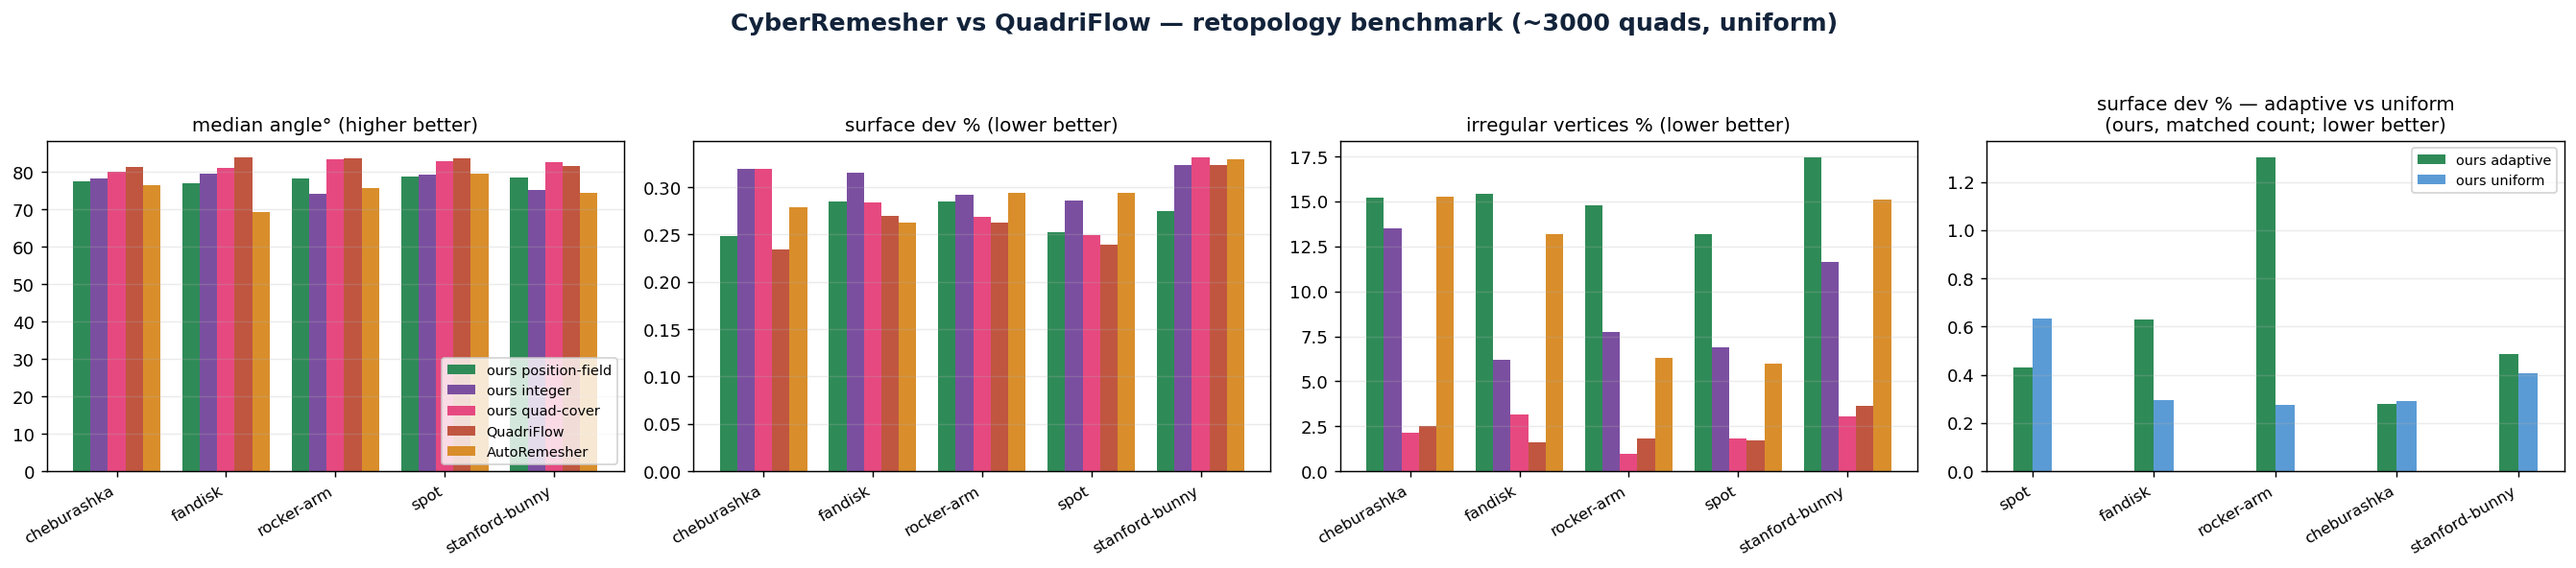
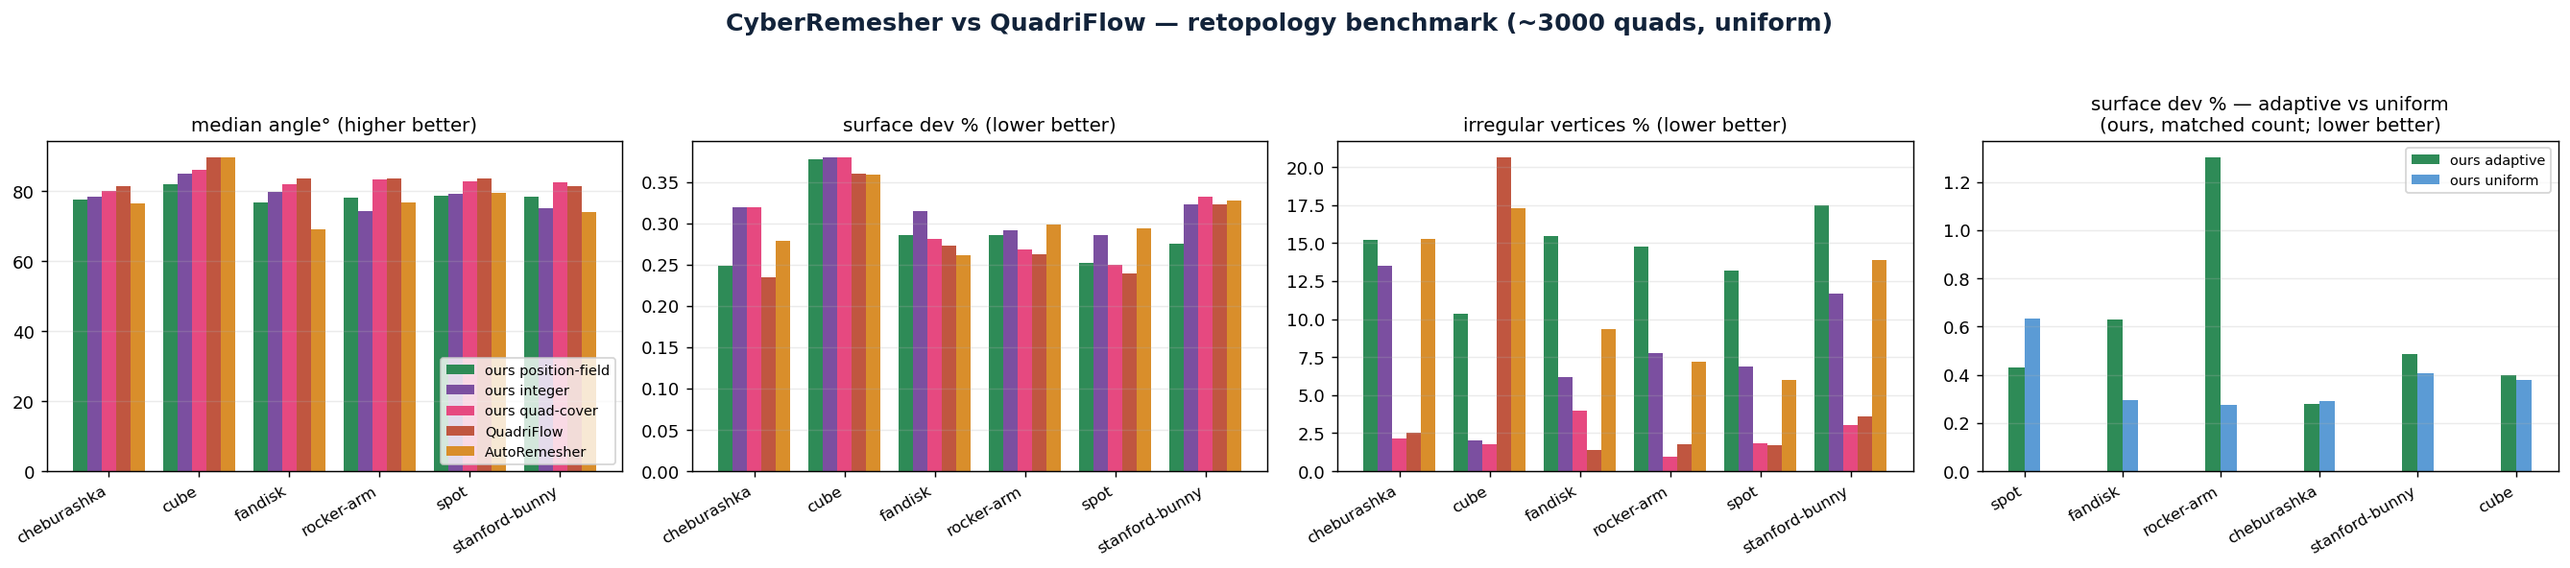
benchmark: add a flat-CAD model to the corpus, and diagnose the crease-alignment gate (#8)
The corpus was entirely organic or smooth-CAD, so it covered no flat panel bounded
by sharp creases. That blind spot is what let a crease field-alignment change
regress edge CV 0.201 -> 0.397 into main unnoticed: nothing in the benchmark
could see the failure class.

Add `cube` as a synthesised corpus member (common.SYNTHETIC_MODELS, resolved by
download_model like any other name) and register it in the benchmark's default
models. It earns its place twice over. It reproduces the regression that slipped
through -- cube@900 edge CV 0.201 -> 0.397 under crease alignment -- and it
surfaces a win the scored benchmark could not previously see: on flat CAD we BEAT
QuadriFlow on feature-following, 0.98% against 2.69%, with 0 topological defects
against its 680. Corpus-wide the headline moves from feature-follow 0/5 to 1/6 and
topological defects from 5/5 to 6/6.

Also add CYBER_QC_FIELD_STATS, which reports what fraction of the field the
constraints freeze. It is what diagnosed why crease alignment helps curved CAD but
hurts flat CAD, and the answer is not over-constraining: fandisk freezes 52.0% of
its faces and improves, while the cube freezes only 14.7% and degrades. A flat
panel's cross field is degenerate -- every orientation is equally smooth -- so
pinning a border band imposes arbitrary structure the interior cannot reconcile,
whereas a curved surface has a curvature-driven preference that crease pins
[…]

diff --git a/examples/common.py b/examples/common.py
@@ -414,11 +414,27 @@ def irregular_pct(mesh: MeshData) -> float:
     return 100.0 * sum(1 for c in val.values() if c != 4) / len(val)
 
 
+# Models we GENERATE rather than download. The community corpus is entirely organic or
+# smooth-CAD, so it covers no flat panel bounded by sharp creases -- a distinct failure class:
+# a planar face has a DEGENERATE cross field (every orientation is equally smooth), so anything
+# that pins its border imposes arbitrary structure. That blind spot is what let a crease
+# field-alignment change regress edge CV 0.201 -> 0.397 unnoticed by the whole benchmark.
+SYNTHETIC_MODELS = {"cube": lambda path: cube_obj(path, subdiv=12)}
+
+
 def download_model(name: str, models_dir: str = MODELS_DIR) -> str:
     """Return a local path to a common-3d-test-model, downloading it (once) on
-    demand. Raises KeyError for an unknown name."""
+    demand, or generating it for the synthetic entries. Raises KeyError otherwise."""
+    if name in SYNTHETIC_MODELS:
+        os.makedirs(models_dir, exist_ok=True)
+        path = os.path.join(models_dir, f"{name}.obj")
+        if not os.path.exists(path):
+            print(f"  generating {name} -> {os.path.relpath(path, _REPO)}")
+            SYNTHETIC_MODELS[name](path)
+        return path
     if name not in COMMON_3D_MODELS:
-        raise KeyError(f"unknown model {name!r}; known: {sorted(COMMON_3D_MODELS)}")
+        raise KeyError(f"unknown model {name!r}; known: "
+                       f"{sorted(list(COMMON_3D_MODELS) + list(SYNTHETIC_MODELS))}")
     os.makedirs(models_dir, exist_ok=True)
     path = os.path.join(models_dir, COMMON_3D_MODELS[name])
     if not os.path.exists(path):

diff --git a/src/quadrangulate/src/crossfield.cpp b/src/quadrangulate/src/crossfield.cpp
@@ -1,6 +1,7 @@
 #include "cyber/quadrangulate/crossfield.hpp"
 
 #include <cmath>
+#include <cstdio>
 #include <cstdlib>
 #include <utility>
 #include <vector>
@@ -109,6 +110,23 @@ CrossField computeCrossField(const Mesh& mesh, int iterations, accel::IBackend& 
             constrained[c] = 1;
             break;
         }
+    }
+
+    // CYBER_QC_FIELD_STATS: what fraction of the field the constraints freeze. This is what
+    // diagnosed why crease alignment (lever c2) helps curved CAD but hurts flat CAD -- it is NOT
+    // over-constraining. fandisk freezes 52% of its faces and improves; a subdivided cube freezes
+    // only 14.7% and degrades (edge CV 0.201 -> 0.397). A flat panel's field is degenerate (every
+    // orientation is equally smooth), so pinning a border band imposes arbitrary structure the
+    // interior cannot reconcile, while a curved surface has a curvature-driven preference that
+    // crease pins reinforce. See docs/ROADMAP.md Phase 3 lever c2.
+    if (std::getenv("CYBER_QC_FIELD_STATS") != nullptr) {
+        std::size_t nPinned = 0;
+        for (std::size_t c = 0; c < nf; ++c) {
+            nPinned += constrained[c] != 0 ? std::size_t{1} : std::size_t{0};
+        }
+        std::fprintf(stderr, "[field] faces=%zu constrained=%zu (%.1f%%) alignDeg=%.0f\n", nf,
+                     nPinned, 100.0 * static_cast<double>(nPinned) / static_cast<double>(nf),
+                     static_cast<double>(alignDeg));
     }
 
     // Build the 2F x 2F transport-averaging operator as CSR: row 2c/2c+1 hold

diff --git a/examples/11_benchmark.py b/examples/11_benchmark.py
@@ -32,7 +32,10 @@ try:
 except ImportError:
     c = None
 
-DEFAULT_MODELS = ["spot", "fandisk", "rocker-arm", "cheburashka", "stanford-bunny"]
+# `cube` is synthesised (see common.SYNTHETIC_MODELS), not downloaded: the community models are
+# all organic or smooth-CAD, so without it the corpus has no flat panel bounded by sharp creases
+# and cannot see that failure class at all.
+DEFAULT_MODELS = ["spot", "fandisk", "rocker-arm", "cheburashka", "stanford-bunny", "cube"]
 
 # Metrics and whether lower is better. These are the benchmark's North Star.
 METRICS = [

diff --git a/docs/ROADMAP.md b/docs/ROADMAP.md
@@ -352,9 +352,32 @@ Anything already measured dead is listed at the end — check it before proposin
        quadrangulator that is the universal fallback and the flat-CAD route.
        Defaulting the parameter changed both. The harness only ever exercises
        `quad_method="quad-cover"`, so it was structurally blind to the second.
-    **To default it on, c2 needs a flatness gate** — skip the constraint on faces
-    whose neighbourhood is planar, or where a face's crease constraints disagree —
-    and the corpus needs a flat-CAD model so the harness can see this class at all.
+    **Follow-up attempts, both measured (2026-07-24):**
+    - ❌ **Consistency gate — measured NO-OP, do not retry.** Hypothesis: a face
+      touching several creases (every triangle round a cube corner touches two
+      perpendicular ones) pins to whichever comes first in vertex order, so
+      neighbours resolve it differently. Gated on the mean-resultant length of the
+      face's crease directions in 4-RoSy. It changed nothing on the cube
+      (CV still 0.397 at 900 quads) because a crease-adjacent triangle almost
+      always touches exactly ONE crease, so the gate never fires.
+    - 🔬 **The mechanism is now measured, and it is NOT over-constraining.**
+      `CYBER_QC_FIELD_STATS` reports the frozen fraction: crease alignment freezes
+      **52.0% of fandisk's faces and improves it**, but only **14.7% of the cube's
+      and degrades it**. fandisk freezes 3.5x more and gets better. The real
+      distinction is that **a flat panel's cross field is degenerate** — every
+      orientation is equally smooth — so pinning a border band imposes arbitrary
+      structure the interior cannot reconcile, whereas a curved surface has a
+      curvature-driven preference that crease pins reinforce. A gate must therefore
+      test the *surface*, not the constraint set: skip alignment where the
+      neighbourhood is planar. Untried.
+    - ✅ **The corpus blind spot is CLOSED.** `cube` is now a synthesised member of
+      the benchmark corpus (`common.SYNTHETIC_MODELS`, `11_benchmark.DEFAULT_MODELS`).
+      It immediately earned its place twice over: it reproduces the regression that
+      slipped through (cube@900 edge CV 0.201 → 0.397), **and** it surfaced a win the
+      scored benchmark could not previously see — on flat CAD we BEAT QuadriFlow on
+      feature-following (**0.98% vs 2.69%**) with **0 defects against its 680**.
+      Corpus-wide the headline moves from feature 0/5 to **1/6** and defects to
+      **6/6**.
 - ◻ **(c3) Give the ARAP polish a restoring force toward the field.** A *clamp* was
   tried (every face saturates whatever cap it is given: 5/10/20/30/45 → 5/10/20/30/44)
   and a 4-RoSy fundamental-domain wrap was tried (worse — map-vs-target 5°→17°). A
